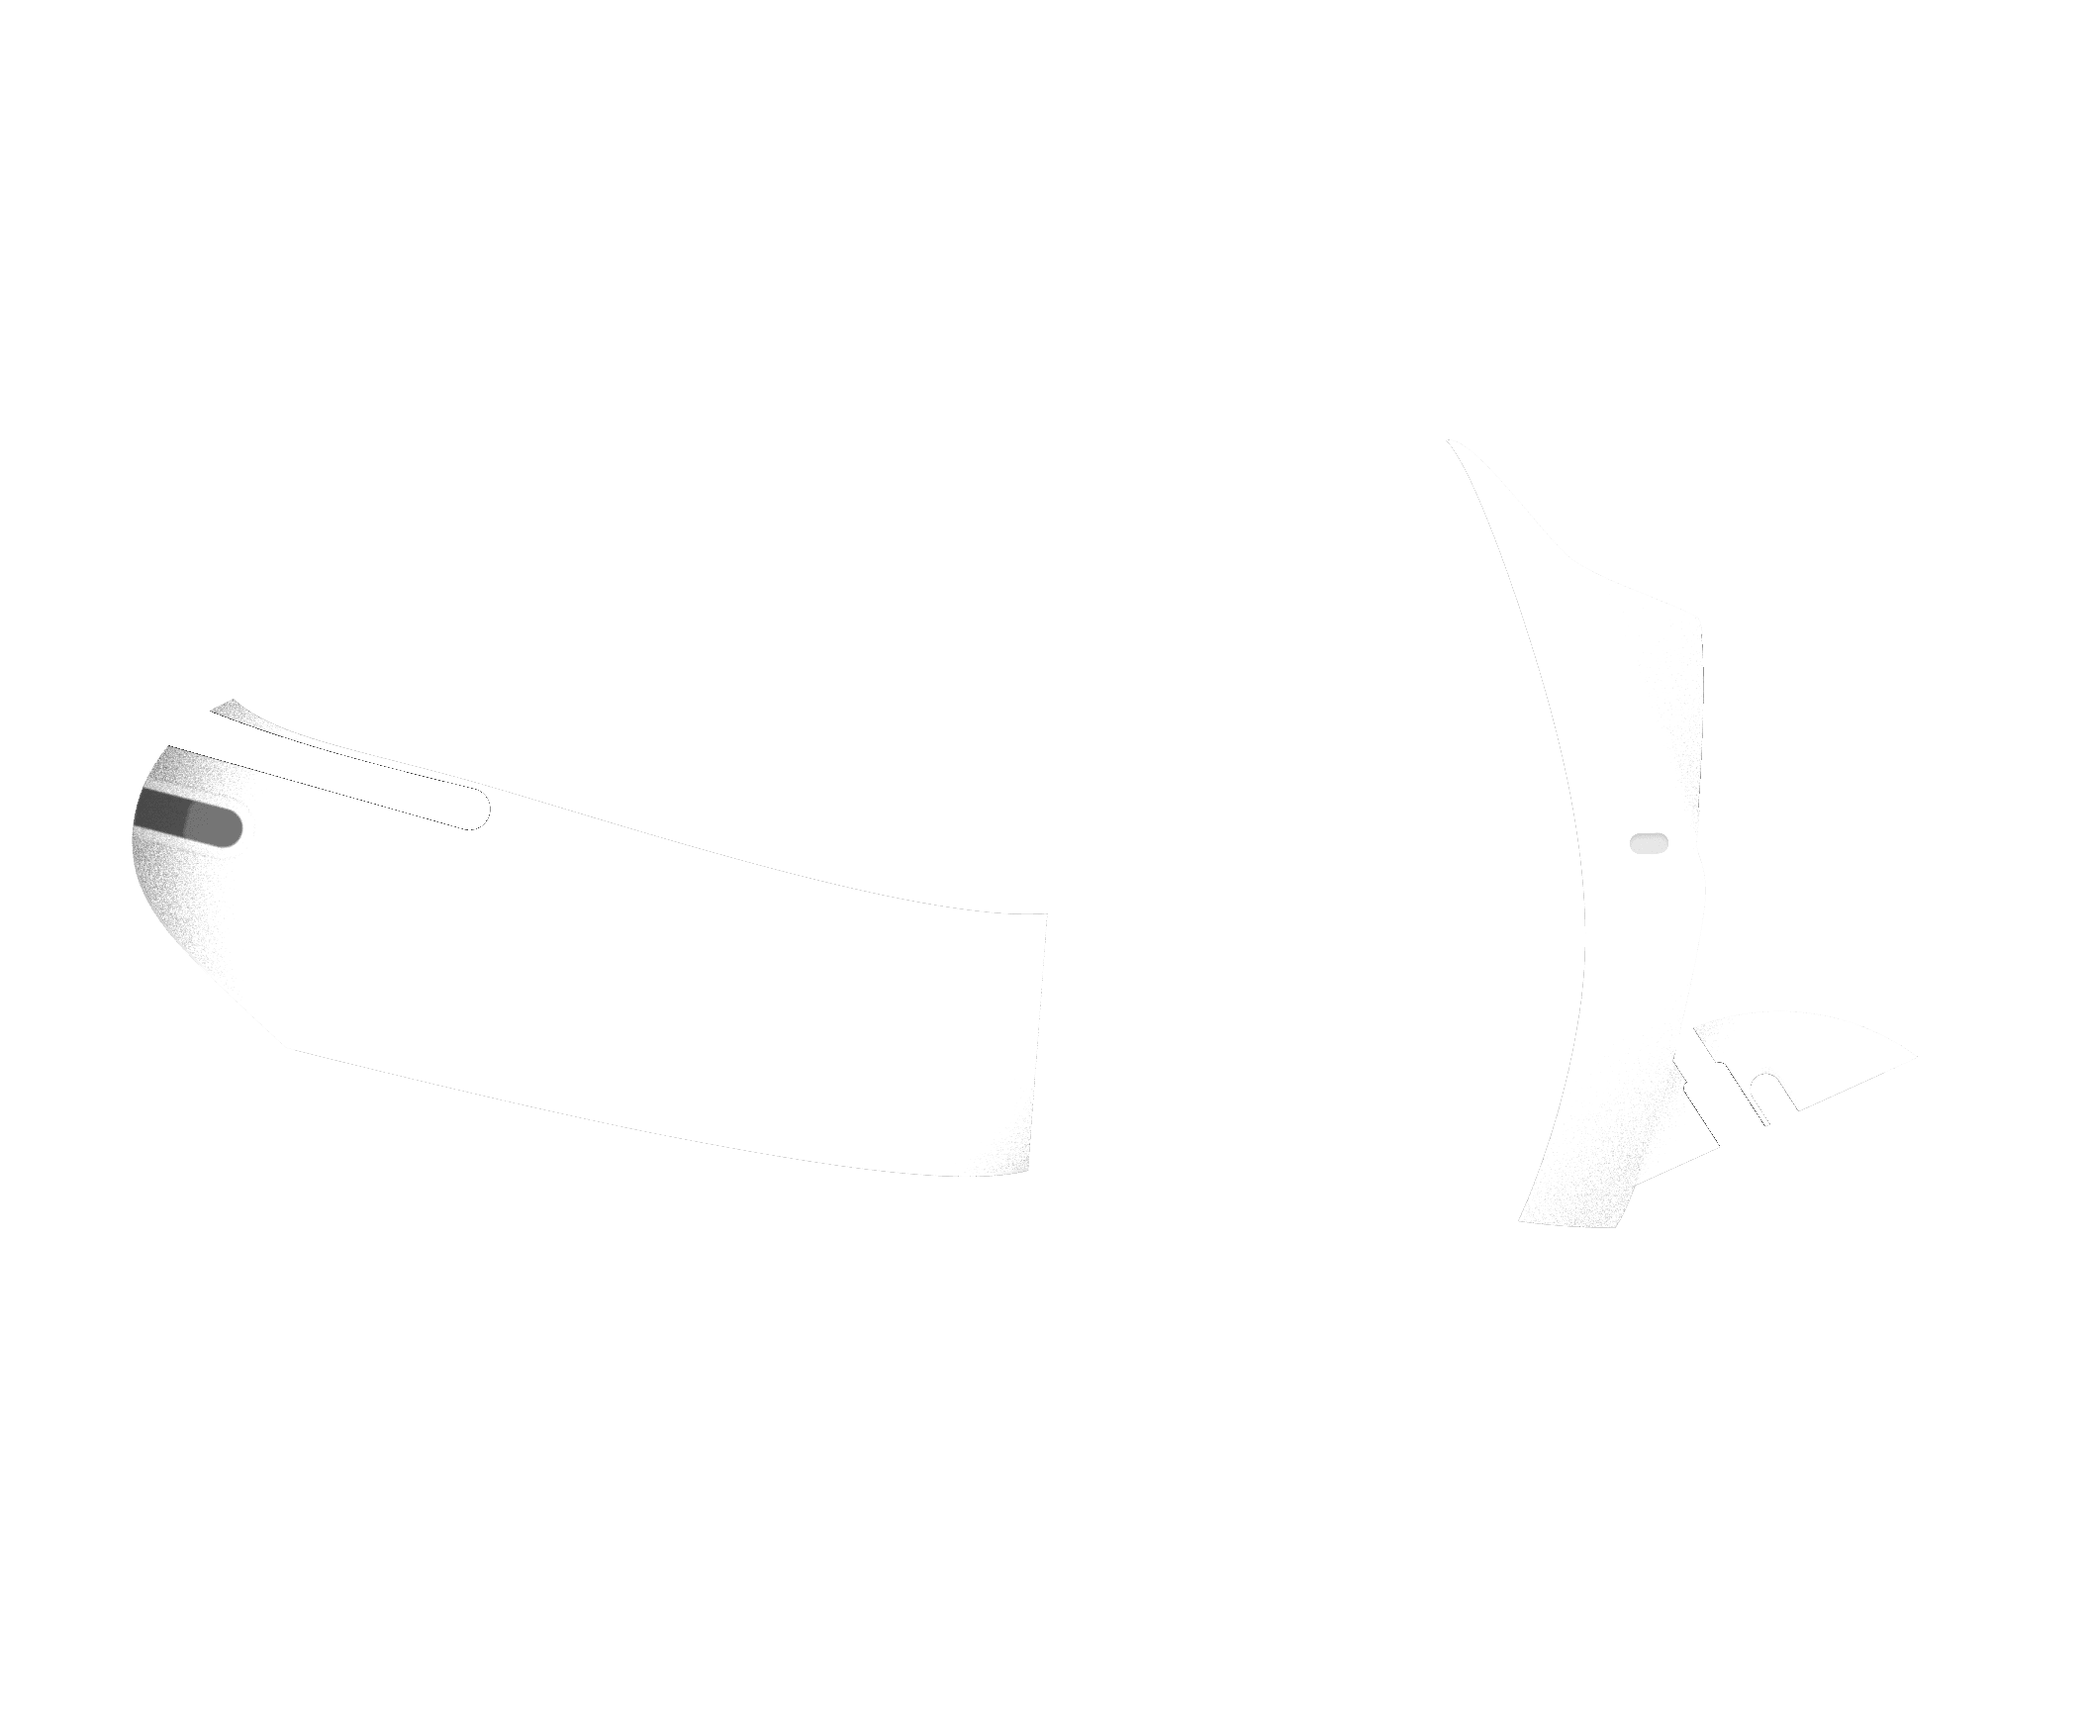
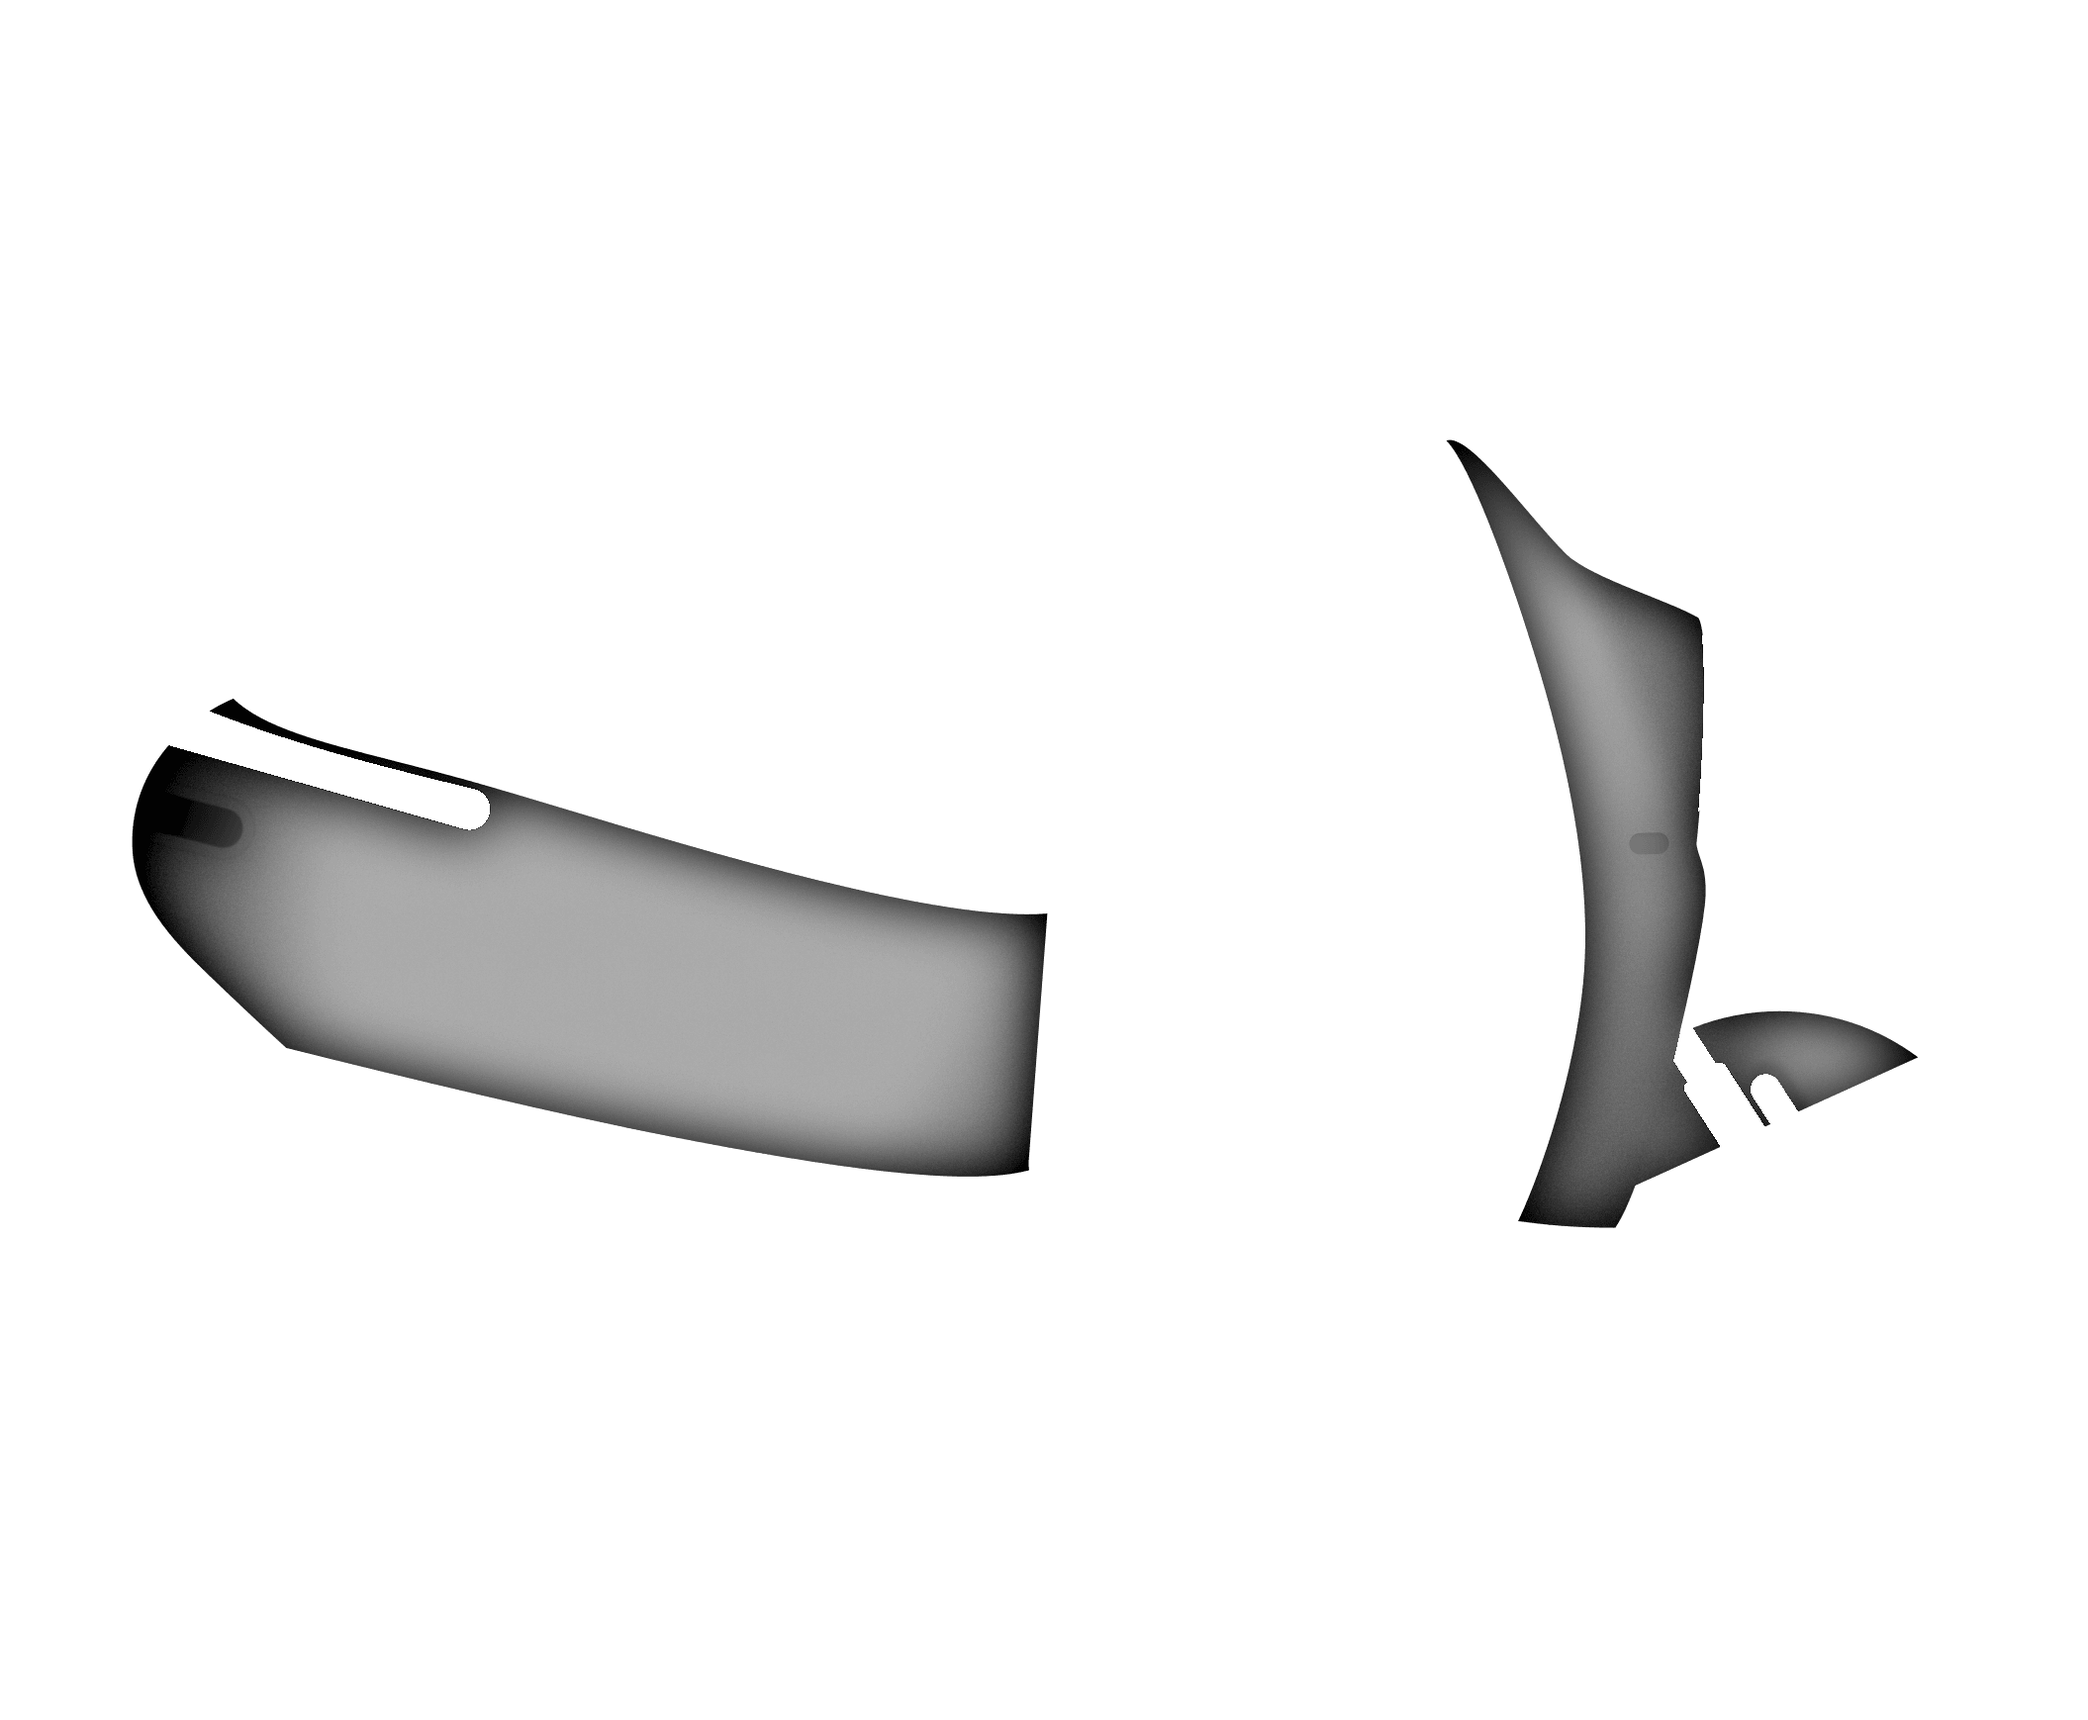
fix(app): preserve paint colour and finish depth (librescoot-jluu)

Changed region(s): [[0.0616, 0.4039, 0.5237, 0.6835], [0.7085, 0.2796, 0.9242, 0.7146], [0.6777, 0.2486, 0.7085, 0.2796]]

diff --git a/test/ui/color_picker_dialog_test.dart b/test/ui/color_picker_dialog_test.dart
@@ -51,14 +51,18 @@ void main() {
     expect(find.text('Matte Pine'), findsOneWidget);
     expect(find.byKey(const ValueKey('scooter-color-noise-2')), findsOneWidget);
     expect(find.byKey(const ValueKey('scooter-color-noise-6')), findsNothing);
+    expect(
+      tester.getCenter(find.byKey(const ValueKey('scooter-color-option-custom'))).dy,
+      closeTo(tester.getCenter(find.byKey(const ValueKey('scooter-color-option-5'))).dy, 1),
+    );
     final title = find.text('Scooter Pro');
     expect(title, findsOneWidget);
     expect(find.ancestor(of: title, matching: find.byType(Center)), findsWidgets);
     final backdrop = find.byKey(const ValueKey('scooter-color-preview-backdrop'));
     expect(backdrop, findsOneWidget);
     final backdropSize = tester.getSize(backdrop);
-    expect(find.byKey(const ValueKey('scooter-color-front-#255242-true')), findsOneWidget);
-    expect(find.byKey(const ValueKey('scooter-color-side-#255242-true')), findsNothing);
+    expect(find.byKey(const ValueKey('scooter-color-front-#557064-true')), findsOneWidget);
+    expect(find.byKey(const ValueKey('scooter-color-side-#557064-true')), findsNothing);
 
     final glossyFill = tester.widget<DecoratedBox>(find.byKey(const ValueKey('scooter-color-fill-6')));
     final glossyGradient = (glossyFill.decoration as BoxDecoration).gradient! as LinearGradient;
@@ -71,11 +75,11 @@ void main() {
     await tester.pump(const Duration(milliseconds: 260));
     expect(tester.getSize(backdrop), backdropSize);
     await tester.pump(const Duration(milliseconds: 300));
-    expect(find.byKey(const ValueKey('scooter-color-side-#255242-true')), findsOneWidget);
+    expect(find.byKey(const ValueKey('scooter-color-side-#557064-true')), findsOneWidget);
 
     await tester.tap(find.byKey(const ValueKey('scooter-color-option-6')));
     await tester.pump(const Duration(milliseconds: 160));
-    expect(find.byKey(const ValueKey('scooter-color-side-#255242-true')), findsOneWidget);
+    expect(find.byKey(const ValueKey('scooter-color-side-#557064-true')), findsOneWidget);
     expect(find.byKey(const ValueKey('scooter-color-side-#0F214F-false')), findsOneWidget);
     await tester.pump(const Duration(milliseconds: 200));
     expect(find.byKey(const ValueKey('scooter-color-side-#0F214F-false')), findsOneWidget);

diff --git a/lib/ui/widgets/color_picker_dialog.dart b/lib/ui/widgets/color_picker_dialog.dart
@@ -72,6 +72,8 @@ class _ColorPickerDialogState extends State<ColorPickerDialog> {
   @override
   Widget build(BuildContext context) {
     return AlertDialog(
+      titlePadding: const EdgeInsets.fromLTRB(20, 16, 20, 0),
+      contentPadding: const EdgeInsets.fromLTRB(16, 2, 16, 16),
       title: widget.scooterName.trim().isEmpty
           ? null
           : Center(
@@ -87,11 +89,11 @@ class _ColorPickerDialogState extends State<ColorPickerDialog> {
           mainAxisSize: MainAxisSize.min,
           children: [
             _preview(),
-            const SizedBox(height: 20),
+            const SizedBox(height: 12),
             Wrap(
               alignment: WrapAlignment.center,
-              spacing: 12,
-              runSpacing: 16,
+              spacing: 4,
+              runSpacing: 12,
               children: [
                 for (final value in _availableColors) _colorOption(value),
                 _customColorOption(),
@@ -247,7 +249,7 @@ class _ColorPickerDialogState extends State<ColorPickerDialog> {
           _customColor = null;
         }),
         child: SizedBox(
-          width: 82,
+          width: 64,
           child: Padding(
             padding: const EdgeInsets.symmetric(vertical: 4),
             child: Column(
@@ -256,6 +258,7 @@ class _ColorPickerDialogState extends State<ColorPickerDialog> {
                 ScooterColorSwatch(
                   scooterColor: scooterColor,
                   selected: selected,
+                  size: 58,
                 ),
                 const SizedBox(height: 7),
                 Text(
@@ -333,7 +336,7 @@ class _ColorPickerDialogState extends State<ColorPickerDialog> {
         borderRadius: BorderRadius.circular(12),
         onTap: _editCustomColor,
         child: SizedBox(
-          width: 82,
+          width: 64,
           child: Padding(
             padding: const EdgeInsets.symmetric(vertical: 4),
             child: Column(
@@ -345,6 +348,7 @@ class _ColorPickerDialogState extends State<ColorPickerDialog> {
                     ScooterColorSwatch(
                       scooterColor: scooterColor,
                       selected: selected,
+                      size: 58,
                     ),
                     if (!selected)
                       Icon(

diff --git a/lib/ui/widgets/rendered_scooter_artwork.dart b/lib/ui/widgets/rendered_scooter_artwork.dart
@@ -41,7 +41,28 @@ class RenderedScooterArtwork extends StatelessWidget {
         Positioned.fill(
           key: ValueKey(matte ? 'custom-paint-matte-layer' : 'custom-paint-gloss-layer'),
           child: ColorFiltered(
-            colorFilter: ColorFilter.mode(_paintColor, BlendMode.modulate),
+            colorFilter: ColorFilter.matrix([
+              1,
+              0,
+              0,
+              0,
+              _paintColor.r * 255 - 128,
+              0,
+              1,
+              0,
+              0,
+              _paintColor.g * 255 - 128,
+              0,
+              0,
+              1,
+              0,
+              _paintColor.b * 255 - 128,
+              0,
+              0,
+              0,
+              1,
+              0,
+            ]),
             child: _image('images/scooter/${_prefix}_${matte ? 'matte' : 'gloss'}.png'),
           ),
         ),

diff --git a/lib/ui/theme/scooter_colors.dart b/lib/ui/theme/scooter_colors.dart
@@ -25,11 +25,11 @@ bool usesLayeredScooterArtwork(int value) => standardScooterColorValues.contains
 String layeredScooterColor(int value) => _layeredArtworkColors[canonicalScooterColor(value)]!;
 
 const Map<int, String> _layeredArtworkColors = {
-  0: '#202020',
-  2: '#255242',
+  0: '#303234',
+  2: '#557064',
   3: '#D5D5D5',
-  4: '#B86057',
-  5: '#D4220F',
+  4: '#E87962',
+  5: '#D43D27',
   6: '#0F214F',
   7: '#494949',
   8: '#80CBC4',

diff --git a/tool/build_scooter_artwork.py b/tool/build_scooter_artwork.py
@@ -14,7 +14,6 @@ import numpy as np
 from PIL import Image, ImageFilter
 
 SIZES = {"front": (866, 1800), "side": (2110, 1738)}
-SOURCE_COLORS = {"matte": "#A4A4A4", "gloss": "#F9F9F9"}
 FRONT_MASTER_SIZE = (866, 1668)
 FRONT_MASTER_TOP = 86
 
@@ -65,6 +64,17 @@ def front_master_gloss(source: Path) -> np.ndarray:
             element.set("fill", "white")
     elements = [child for child in root if child.tag.rsplit("}", 1)[-1] != "defs"]
     return pad_front_master(render_svg_elements(tree, elements, FRONT_MASTER_SIZE))
+
+
+def front_master_ring_mask(source: Path) -> np.ndarray:
+    tree = ET.parse(source / "front_master.svg")
+    ring = next(
+        element
+        for element in tree.getroot()
+        if any(child.get("stroke", "").upper() == "#868686" for child in element)
+    )
+    rendered = render_svg_elements(tree, [ring], FRONT_MASTER_SIZE)
+    return pad_front_master(rendered)[:, :, 3] / 255
 
 
 def front_master_masks(source: Path) -> tuple[np.ndarray, np.ndarray]:
@@ -190,30 +200,30 @@ def tone_layer(source: Path, view: str, finish: str, alpha: np.ndarray) -> np.nd
     use_master_gloss = view == "front" and finish == "gloss" and (source / "front_master.svg").exists()
     if use_master_matte:
         image = pad_front_master(rgba(source / "front_master@2x.png"))
-        color = "#2F2F2F"
     elif use_master_gloss:
         image = front_master_gloss(source)
-        color = "#F9F9F9"
     else:
         source_id = 3 if finish == "matte" else 1
         image = rgba(source / f"{view}_{source_id}.png")
-        color = SOURCE_COLORS[finish]
-    rgb = np.array([int(color[index : index + 2], 16) for index in (1, 3, 5)], dtype=np.float32)
-    reference_luminance = np.dot(rgb, [0.2126, 0.7152, 0.0722])
+
     luminance = np.dot(image[:, :, :3], [0.2126, 0.7152, 0.0722])
-    tone = np.clip(luminance / reference_luminance, 0, 1)
-    if use_master_matte:
+    painted = alpha > 0.5
+    if finish == "matte":
+        radius = 18 if view == "front" else 28
         smoothed = np.asarray(
-            Image.fromarray(np.rint(tone * 255).astype(np.uint8), "L").filter(
-                ImageFilter.GaussianBlur(18)
+            Image.fromarray(np.rint(luminance).astype(np.uint8), "L").filter(
+                ImageFilter.GaussianBlur(radius)
             ),
             dtype=np.float32,
-        ) / 255
-        tone = 0.5 + 0.5 * smoothed + 0.1 * (tone - smoothed)
-        tone = np.clip(tone, 0, 1)
+        )
+        baseline = np.median(smoothed[painted])
+        value = 128 + 1.2 * (smoothed - baseline) + 0.3 * (luminance - smoothed)
+    else:
+        baseline = np.median(luminance[painted])
+        value = 128 + 0.8 * (luminance - baseline)
 
     output = np.empty_like(image, dtype=np.uint8)
-    output[:, :, :3] = np.rint(tone[:, :, None] * 255).astype(np.uint8)
+    output[:, :, :3] = np.rint(np.clip(value, 0, 255)[:, :, None]).astype(np.uint8)
     output[:, :, 3] = np.rint(alpha * 255).astype(np.uint8)
     return output
 
@@ -227,6 +237,8 @@ def build_view(source: Path, output: Path, view: str) -> None:
     if use_master:
         base = pad_front_master(rgba(source / "front_master@2x.png"))
         foreground_alpha = front_master_masks(source)[1]
+        ring_alpha = front_master_ring_mask(source)
+        base[:, :, :3] *= 1 - 0.65 * ring_alpha[:, :, None]
         base[:, :, 3] *= 1 - alpha * (1 - foreground_alpha)
     else:
         base = rgba(source / f"{view}_1.png")
